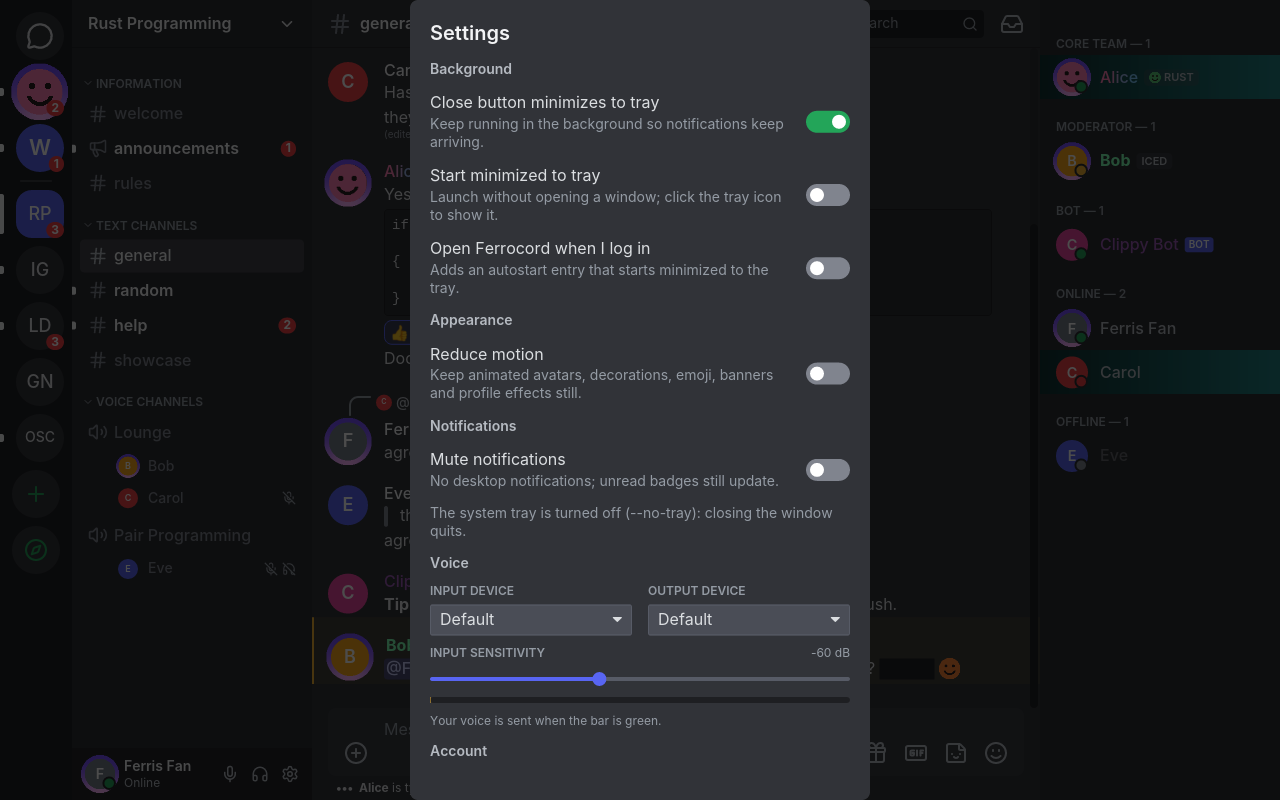
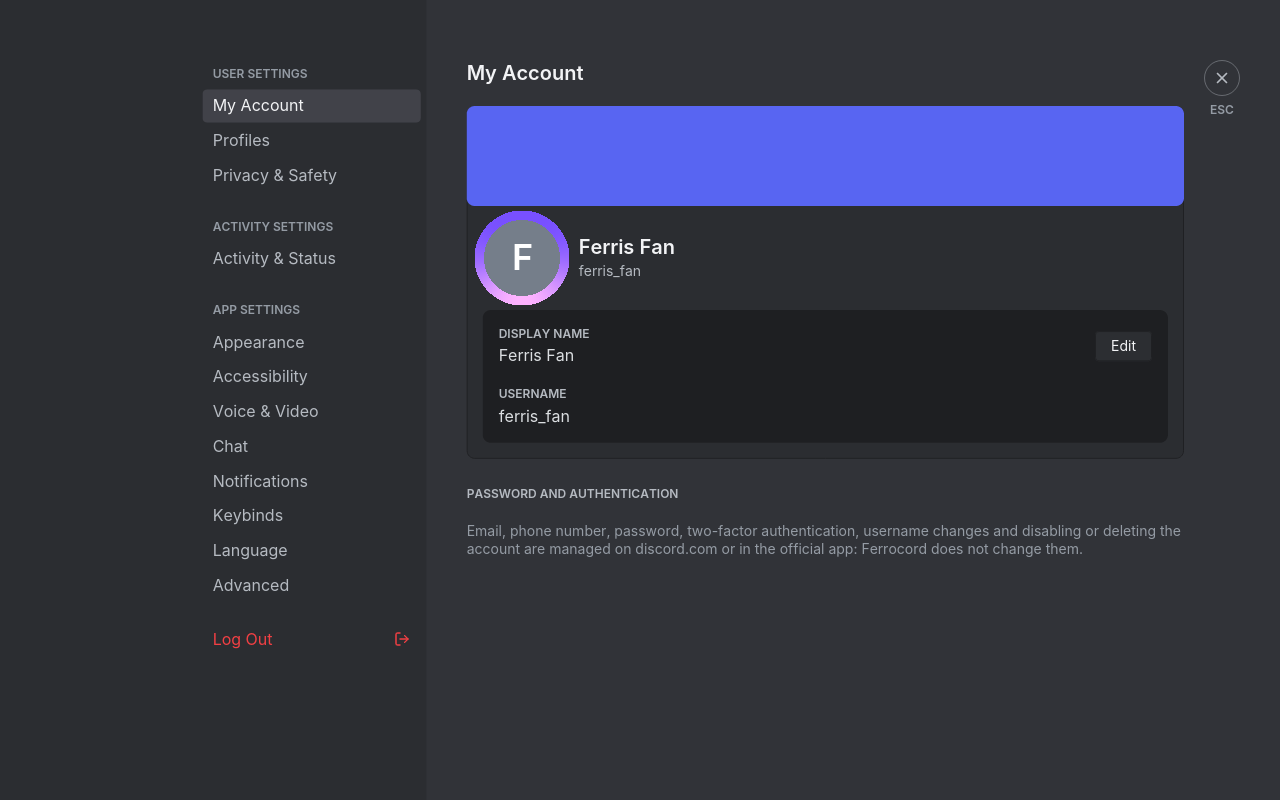
docs(settings): protocol, screenshots and gotchas for User Settings
Claude-Session: https://claude.ai/code/session_011GZUAJAc8TohrBZJFGozGm

diff --git a/src/ui/settings.rs b/src/ui/settings.rs
@@ -491,14 +491,7 @@ fn privacy(app: &App) -> El<'_> {
     let flags = s.u32(Synced::FriendSourceFlags);
     let friend = |bit: u32, label: &'static str, hint: &'static str| -> El<'_> {
         let on = flags & bit == bit;
-        let next = if on {
-            // Everyone needs the other two: turning one off drops it.
-            flags & !bit & !us::FRIENDS_NO_RELATION
-        } else if bit == us::FRIENDS_NO_RELATION {
-            us::FRIENDS_ALL
-        } else {
-            flags | bit
-        };
+        let next = st::toggle_friend_source(flags, bit);
         toggle(
             app,
             label,

diff --git a/docs/protocol.md b/docs/protocol.md
@@ -39,7 +39,7 @@ states or remote auth.
 | 0 | DISPATCH | ← | Tracks `s`; parsed by `types::parse_dispatch`. |
 | 1 | HEARTBEAT | ↔ | Sent every `heartbeat_interval`; answered immediately when the server asks. |
 | 2 | IDENTIFY | → | Token, `capabilities`, `properties` (honest: `browser = "Ferrocord"`; same object as `X-Super-Properties`), presence. |
-| 3 | PRESENCE_UPDATE | → | Own status (`online`/`idle`/`dnd`/`invisible`); also saved with `PATCH /users/@me/settings`. |
+| 3 | PRESENCE_UPDATE | → | Own status (`online`/`idle`/`dnd`/`invisible`) plus the custom status as an activity (`{type: 4, name: "Custom Status", state, emoji}`); also saved in the settings proto (§14). IDENTIFY carries the same presence. |
 | 14 | GUILD_SUBSCRIPTIONS | → | Member list ranges `{guild_id, typing, threads, channels: {id: [[0,99]]}}`, sent while the member sidebar is open. |
 | 6 | RESUME | → | `{ token, session_id, seq }` on the `resume_gateway_url`. |
 | 7 | RECONNECT | ← | Close with 4000 and resume. |
@@ -140,7 +140,9 @@ client's retry. Ferrocord never solves a captcha and uses no solver service.
 | Jump | `GET .../messages?around={m}` / `?after={m}` |
 | Search | `GET /guilds/{g}/messages/search?content=&offset=` or `/channels/{c}/...` (202 + `retry_after` while indexing is retried, max 4 tries) |
 | Upload | `POST .../messages` `multipart/form-data`: `payload_json` + `files[n]`, streamed from disk with an explicit `Content-Length` |
-| Status | `PATCH /users/@me/settings {status}` |
+| Status | `PATCH /users/@me/settings-proto/1` (`status.status`, `status.custom_status`; §14) |
+| User settings | `GET`/`PATCH /users/@me/settings-proto/1` (§14) |
+| Profile edit | `PATCH /users/@me {global_name}`, `PATCH /users/@me/profile {pronouns, bio}` |
 | Mark read | `POST /channels/{c}/messages/{m}/ack` `{ token: null }` |
 | QR ticket | `POST /users/@me/remote-auth/login` `{ ticket }` with `X-Fingerprint` |
 | Fingerprint | `GET /experiments` (logged out) → `fingerprint` |
@@ -636,3 +638,94 @@ Design, DAVE and the video feasibility pass: `docs/voice.md`.
 
 Voice settings (devices, sensitivity, per-user volume, self mute/deafen)
 are stored in SQLite `meta("pref.voice")` as JSON and kept on logout.
+
+## 14. User Settings (`net/user_settings.rs`, `net/rest/settings.rs`, `app/settings.rs`, `ui/settings.rs`)
+
+The screen copies the official layout: a sidebar of categories (User
+Settings, Activity Settings, App Settings, Log Out at the bottom) and the
+page on the right; Esc or the round X closes it. Both scrollables have
+fixed ids, text fields are bound to `SettingsState::forms` (filled once when
+the screen opens) and no image handle is made in `view`.
+
+### Synced settings: the preloaded user settings proto
+
+`GET /users/@me/settings-proto/1` -> `{settings: base64}` =
+`PreloadedUserSettings` (discord-protos 1.2.429, checked against the PyPI
+package's `.proto`). Ferrocord identifies with `capabilities: 0`, so READY
+carries only the legacy JSON settings: the proto is read with one GET after
+READY and again whenever the settings screen opens (so changes made in
+another client show).
+
+| Setting | Field (top.field[.field]) | Type |
+|---|---|---|
+| Show spoiler content | 6.4 `render_spoilers` | StringValue `ON_CLICK` / `IF_MODERATOR` / `ALWAYS` |
+| Images when uploaded directly | 6.9 `inline_attachment_media` | BoolValue |
+| Images when posted as links | 6.10 `inline_embed_media` | BoolValue |
+| Play GIFs automatically | 6.11 `gif_auto_play` | BoolValue |
+| Show embeds / link previews | 6.12 `render_embeds` | BoolValue |
+| Show emoji reactions | 6.13 `render_reactions` | BoolValue |
+| Play animated emoji | 6.14 `animate_emoji` | BoolValue |
+| Animate stickers | 6.15 `animate_stickers` | UInt32Value 0 always, 1 on interaction, 2 never |
+| Compact message display | 6.17 `message_display_compact` | BoolValue |
+| Convert emoticons | 6.21 `convert_emoticons` | BoolValue |
+| DM spam filter | 6.27 `dm_spam_filter_v2` | enum 1 off, 2 non-friends, 3 all |
+| Allow DMs from server members (default) | 8.4 `default_guilds_restricted` (inverted) | bool |
+| Friend request sources | 8.11 `friend_source_flags` | UInt32Value bits 1<<1 mutual friends, 1<<2 mutual servers, 1<<3 everyone (needs both) |
+| Online status | 11.1 `status.status` | StringValue |
+| Custom status | 11.2 `custom_status {text=1, emoji_id=2 fixed64, emoji_name=3, expires_at_ms=4 fixed64, created_at_ms=5 fixed64}` | message |
+| Language | 12.1 `localization.locale` | StringValue |
+| Theme | 13.1 `appearance.theme` | enum 1 dark, 2 light, 3 darker (Ash), 4 midnight (Onyx) |
+| Developer Mode | 13.2 `developer_mode` | bool |
+| Time format | 13.9 `timestamp_hour_cycle` | enum 0 auto, 1 12-hour, 2 24-hour |
+
+A `*Value` wrapper that is absent means "not set" (the client default); an
+empty wrapper is the zero value. Writes follow Discord's PATCH rule: each
+top-level field sent *replaces* the stored one and omitted ones stay. So a
+save is GET, edit (`user_settings::apply`: every other byte, unknown fields
+included, kept), then `PATCH /users/@me/settings-proto/1 {settings: base64}`
+with only the touched top-level fields, each complete
+(`user_settings::top_level`). `out_of_date: true` counts as a failure.
+
+Changes apply at once and are queued; the queue is written after 1.5 s of
+quiet (one PATCH per batch, the endpoint is heavily rate limited) or when
+the screen closes. Saves are serialised. A failed save restores what the
+batch changed (unless a newer change of the same setting is queued) and
+shows a toast. The status menu and the tray use the same path; the gateway
+presence (op 3) changes immediately.
+
+### Profile
+
+Display name: `PATCH /users/@me {global_name}` (empty = `null`). Pronouns and
+About Me: `PATCH /users/@me/profile {pronouns, bio}`. Only changed fields
+are sent, from a Save Changes / Reset bar like the official one. The
+display name shows optimistically and is put back if Discord refuses (its
+400 message is shown).
+
+### Local settings
+
+`meta("pref.settings")` JSON (`LocalSettings`, clamped on load): chat font
+size (12-24 px; message text and author names), zoom (50-150 %; the
+daemon's `scale_factor`), saturation (palette desaturated in
+`Palette::saturated`), notification sound (freedesktop `sound-name:
+message-new-instant` or `suppress-sound`; Windows default toast audio or
+silent), unread badge (tray count), taskbar flash
+(`window::request_user_attention` on a mention while unfocused) and message
+content in notifications. The existing `pref.*` flags (minimize to tray,
+start minimized, mute notifications, reduce motion) stay where they were;
+`pref.autoplay_gifs` now mirrors the synced `gif_auto_play` until Discord
+answers. Voice & Video adds input/output volume (0-200 %, applied in the
+engine before voice activity / after mixing) and a microphone test
+(`net/voice/mic_test.rs`: opens the devices outside a call, drives the
+meter and plays the voice back).
+
+### Not implemented
+
+Email / phone / password / 2FA / username changes, account disable/delete
+(managed on discord.com); avatar, banner, profile theme and effects
+editing; explicit image filters (Ferrocord does not blur flagged media, so
+the switch would do nothing here); sticker suggestions (no suggestion UI);
+push to talk (no global shortcut); per-type notification switches beyond
+the ones above (reaction, friend and activity notifications are not
+produced); keybind editing; translating Ferrocord's own UI (English only;
+the Language page sets the account locale); `USER_SETTINGS_PROTO_UPDATE`
+is not handled (the screen re-reads the proto when it opens instead).

diff --git a/CLAUDE.md b/CLAUDE.md
@@ -9,7 +9,7 @@ Video (camera / Go Live) is not implemented yet: see `docs/voice.md` §6.
 
 ## Commands
 - `cargo run -- --mock` — run with mock data (no network, in-memory stores).
-- `cargo run -- --mock --screenshot <login|login-captcha|login-web|login-web-failed|guild|dms|embeds|voice|call|incoming-call|gifs|gif-trending|gif-favorites> out.png` — render a screen to PNG
+- `cargo run -- --mock --screenshot <login|login-captcha|login-web|login-web-failed|guild|dms|embeds|voice|call|incoming-call|gifs|gif-trending|gif-favorites|settings|settings-<profiles|privacy|status|appearance|accessibility|voice|chat|notifications|keybinds|language|advanced>> out.png` — render a screen to PNG
   (headless: `ICED_BACKEND=tiny-skia xvfb-run -a -s "-screen 0 1280x800x24" ...`).
 - `cargo fmt --check`, `cargo clippy --all-targets -- -D warnings`, `cargo test`.
 - `cargo build --release`.
@@ -64,6 +64,10 @@ CI (`.github/workflows/ci.yml`) runs fmt, clippy and tests on ubuntu-latest.
 - Voice: static libopus (needs `cmake`), `cpal` (`libasound2-dev`); the voice subscription exists
   only in a call. DAVE is mandatory (close 4017); keep `davey` calls under `catch_unwind`.
 - Unicode emoji need the colour emoji span (`ui::emoji_font::emoji_text`/`emoji_runs`, family from `emoji_font()`); `text_editor` (composer) cannot take spans and falls back to the loaded font. The bundled TTF (OFL) is renamed "Ferrocord Color Emoji": a same-named system face (COLRv1 Noto, which swash draws blank/mono) would shadow it. A system Noto is used only if every face of it is CBDT/sbix (`pick_emoji_font`).
+- User Settings (`app/settings.rs`, `ui/settings.rs`, `docs/protocol.md` §14): account settings go through
+  `settings-proto/1` (`net/user_settings.rs`): PATCH only the touched top-level fields, each complete
+  (sent top-level fields REPLACE the stored ones), read-modify-write keeping unknown bytes, debounced and
+  rolled back on failure. Local ones live in `meta("pref.settings")`. Never add a switch the app does not honour.
 - `text_editor` `min_height`/`max_height` limit the text area, then the padding is added: pass `composer::text_height_limits`, never a total height (the 68 px composer bug).
 - Composer is a `text_editor` (`app/composer.rs`): Enter sends, Shift+Enter newline; cursor columns are bytes. Container `shadow` is safe with ferroiced (tiny-skia clips it to the damage region), but
   the house style keeps the gradient header and sets no shadow (`ui/theme.rs` guard test).

diff --git a/LESSONS.md b/LESSONS.md
@@ -53,3 +53,6 @@ Things learned while building Ferrocord that are worth remembering.
 - Media URLs from Discord's GIF API point at the provider's CDN (several Tenor hosts): fetch them as the browser would (plain client, no Discord headers), not through the Discord-CDN allowlist. Favourite GIFs live in the frecency settings proto (`settings-proto/2`, field 2); writes must be read-modify-write of the whole message.
 - **"No picture could be decoded from the H.264 stream"** had several causes, each reproduced with an ffmpeg fixture: a *fragmented* MP4 (browsers, OBS, crash-safe recorders) keeps its samples in `moof`/`trun`, so the empty `moov` sample table gave zero packets (the `mp4` crate also mis-places fragment samples at `base_data_offset`); QuickTime `.mov` failed in the `mp4` crate's sound-description parser; and OpenH264 returns nothing, with no error worth showing, for High 10, 4:2:2, 4:4:4 and interlaced SPSs and for a stream without any IDR. Read the SPS to name the format, and test new container layouts with real files (`tests/fixtures/video`). OpenH264's error concealment cannot start a stream at a recovery-point I-frame cleanly (freeze modes hold output until an IDR; the others drop B-frames).
 - symphonia 0.5: `AacDecoder::codec_params()` echoes the parameters it was given and the isomp4 reader leaves `channels` unset, so MP4 AAC looked like "AAC without a channel layout" and every MP4 played mute. The channel count is in the AudioSpecificConfig (`audio::asc_channels`).
+- **settings-proto PATCH replaces whole top-level fields**: a field sent in `PATCH /users/@me/settings-proto/1` replaces that category entirely (unsent subfields reset), omitted top-level fields stay. Send each touched category complete (read-modify-write keeps unknown fields) and nothing else. `google.protobuf.*Value` wrappers: absent = unset (client default), empty wrapper = explicit `false`/`0`.
+- A process-wide display flag read by free formatting functions (12/24-hour clock) is best thread-local: iced runs `update` and `view` on one thread, and parallel tests then cannot see each other's value.
+- iced `daemon::scale_factor` takes `Fn(&State, window::Id) -> f32`: a zoom setting is just state read there, no window reopen.
